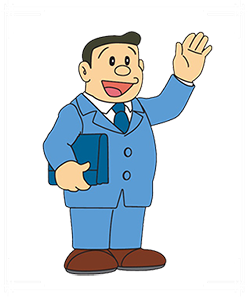
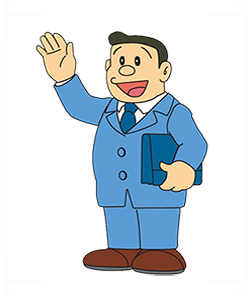
create interface and add description to character select

diff --git a/src/scene/CharacterSelectScene.java b/src/scene/CharacterSelectScene.java
@@ -34,15 +34,23 @@ public class CharacterSelectScene extends StackPane {
 	private String charName;
 	private boolean isSelect1 = false;
 	private boolean isSelect2 = false;
-	private Image logo = new Image(ClassLoader.getSystemResource("images/CharSelectLogo.png").toString());
-	private Image character1_notSelect = new Image(
+	
+	private final Image logo = new Image(ClassLoader.getSystemResource("images/CharSelectLogo.png").toString());
+	private final Image character1_notSelect = new Image(
 			ClassLoader.getSystemResource("images/Player1_notSelect.png").toString());
-	private Image character1_select = new Image(ClassLoader.getSystemResource("images/Player1_select.png").toString());
-	private Image character2_notSelect = new Image(
+	private final Image character1_select = new Image(
+			ClassLoader.getSystemResource("images/Player1_select.png").toString());
+	private final Image character1_mouseOn = new Image(
+			ClassLoader.getSystemResource("images/Player1_mouseOn.png").toString());
+	private final Image character2_notSelect = new Image(
 			ClassLoader.getSystemResource("images/Player2_notSelect.png").toString());
-	private Image character2_select = new Image(ClassLoader.getSystemResource("images/Player2_select.png").toString());
-	private Image nameTextFieldBackground = new Image(
+	private final Image character2_select = new Image(
+			ClassLoader.getSystemResource("images/Player2_select.png").toString());
+	private final Image character2_mouseOn = new Image(
+			ClassLoader.getSystemResource("images/Player2_mouseOn.png").toString());
+	private final Image nameTextFieldBackground = new Image(
 			ClassLoader.getSystemResource("images/NameTextFieldBackground.png").toString());
+	
 	private GraphicsContext gc;
 	private Font NAME_FONT = Font.loadFont(ClassLoader.getSystemResourceAsStream("fonts/Otaku_Rant.ttf"), 30);
 	private AudioClip mouseIn = new AudioClip(ClassLoader.getSystemResource("musics/mouseIn.mp3").toExternalForm());
@@ -123,7 +131,7 @@ public class CharacterSelectScene extends StackPane {
 		});
 		addTextLimiter(nameTextField, 12);
 
-		// Add background
+		// Add text field background
 		Canvas textFieldBackground = new Canvas(340, 70);
 		gc = textFieldBackground.getGraphicsContext2D();
 		gc.drawImage(nameTextFieldBackground, 0, 0);
@@ -233,7 +241,7 @@ public class CharacterSelectScene extends StackPane {
 	private void setChar(int thisID, Canvas thisCanvas, int otherID, Canvas otherCanvas) {
 		thisCanvas.setOnMouseClicked((MouseEvent event) -> {
 			this.charID = thisID;
-			this.drawCharacterSelected(thisID, thisCanvas);
+			//this.drawCharacterSelected(thisID, thisCanvas);
 			this.drawCharacter(otherID, otherCanvas);
 			if (thisID == 1) {
 				this.isSelect1 = true;
@@ -247,12 +255,14 @@ public class CharacterSelectScene extends StackPane {
 			mouseClicked.play();
 		});
 		thisCanvas.setOnMouseEntered((MouseEvent event) -> {
-			this.drawCharacterSelected(thisID, thisCanvas);
+			this.drawCharacterMouseOn(thisID, thisCanvas);
 			mouseIn.play();
 		});
 		thisCanvas.setOnMouseExited((MouseEvent event) -> {
 			if ((!isSelect1 && thisID == 1) || (!isSelect2 && thisID == 2)) {
 				this.drawCharacter(thisID, thisCanvas);
+			} else {
+				this.drawCharacterSelected(thisID, thisCanvas);
 			}
 		});
 	}
@@ -274,6 +284,15 @@ public class CharacterSelectScene extends StackPane {
 			gc.drawImage(character1_select, 0, 0);
 		if (ID == 2)
 			gc.drawImage(character2_select, 0, 0);
+	}
+	
+	private void drawCharacterMouseOn(int ID, Canvas canvas) {
+		gc = canvas.getGraphicsContext2D();
+		gc.clearRect(0, 0, canvas.getWidth(), canvas.getHeight());
+		if (ID == 1)
+			gc.drawImage(character1_mouseOn, 0, 0);
+		if (ID == 2)
+			gc.drawImage(character2_mouseOn, 0, 0);
 	}
 
 	public static void addTextLimiter(final TextField tf, final int maxLength) {

diff --git a/src/customer/Customer.java b/src/customer/Customer.java
@@ -16,7 +16,6 @@ import javafx.util.converter.CurrencyStringConverter;
 public abstract class Customer extends ImageView {
 
 	protected String name;
-	protected Food food;
 	protected String foodName;
 	protected int waitTime;
 	protected ProgressBar waitBar;
@@ -39,24 +38,14 @@ public abstract class Customer extends ImageView {
 		this.imageGlow = new Image(this.imageGlowPath);
 		this.setImage(this.image);
 		this.waitTime = waitTime;
-		
+
 		this.waitBar = new ProgressBar(0);
-		this.waitBar.setLayoutX(x*80);
-		this.waitBar.setLayoutY((y*80)+80);
+		this.waitBar.setLayoutX(x * 80);
+		this.waitBar.setLayoutY((y * 80) + 80);
 		this.waitBar.setPrefWidth(80);
 		this.waitBar.setVisible(false);
-		
+
 		this.setEvent();
-	}
-	
-	private void setFoodObject() {
-		if(this.foodName.equals("Dorayaki")) {
-			this.food = new Dorayaki();
-		} else if(this.foodName.equals("Curry")) {
-			this.food = new Curry();
-		} else {
-			this.food = new Steak();
-		}
 	}
 
 	private void setCustomerImage(int status) {
@@ -113,7 +102,7 @@ public abstract class Customer extends ImageView {
 				if (event.getTransferMode() == TransferMode.MOVE) {
 					System.out.println(name + " drag done");
 					thisCustomer.setVisible(false);
-				}		
+				}
 
 				event.consume();
 			}
@@ -130,22 +119,24 @@ public abstract class Customer extends ImageView {
 		}
 	}
 
-	public void waitThread() {
+	private void waitThread() {
 		Thread wait = new Thread(() -> {
 
 			try {
 				while (this.waitBar.getProgress() < 1) {
-
 					setProgress();
-
 					Thread.sleep(500);
 				}
-
+				
 			} catch (InterruptedException e1) {
 				e1.printStackTrace();
 			}
 		});
 		wait.start();
+
+	}
+
+	public void leave() {
 
 	}
 
@@ -156,10 +147,6 @@ public abstract class Customer extends ImageView {
 	public String getfoodName() {
 		return foodName;
 	}
-	
-	public Food getFood() {
-		return food;
-	}
 
 	public ProgressBar getWaitBar() {
 		return waitBar;
@@ -168,10 +155,10 @@ public abstract class Customer extends ImageView {
 	public int getWaitTime() {
 		return waitTime;
 	}
-	
+
 	public void setWaitBarLocation(int x, int y) {
-		this.waitBar.setLayoutX(x*80);
-		this.waitBar.setLayoutY((y*80)+80);
+		this.waitBar.setLayoutX(x * 80);
+		this.waitBar.setLayoutY((y * 80) + 80);
 	}
 
 }

diff --git a/src/customer/Doraemon.java b/src/customer/Doraemon.java
@@ -1,11 +1,15 @@
 package customer;
 
-import component.Dorayaki;
-
-public class Doraemon extends Customer {
+public class Doraemon extends Customer implements Madable{
 
 	public Doraemon(int x, int y) {
 		super("Doraemon", 17, "Dorayaki", x, y);
+	}
+
+	@Override
+	public void angry() {
+		// TODO Auto-generated method stub
+		
 	}
 
 }

diff --git a/src/customer/Giant.java b/src/customer/Giant.java
@@ -2,10 +2,16 @@ package customer;
 
 import component.Curry;
 
-public class Giant extends Customer {
+public class Giant extends Customer implements Madable {
 
 	public Giant(int x, int y) {
 		super("Giant", 15, "Curry", x, y);
+	}
+
+	@Override
+	public void angry() {
+		// TODO Auto-generated method stub
+		
 	}
 
 }

diff --git a/src/customer/Madable.java b/src/customer/Madable.java
@@ -1,0 +1,6 @@
+package customer;
+
+public interface Madable {
+	
+	public void angry();
+}
